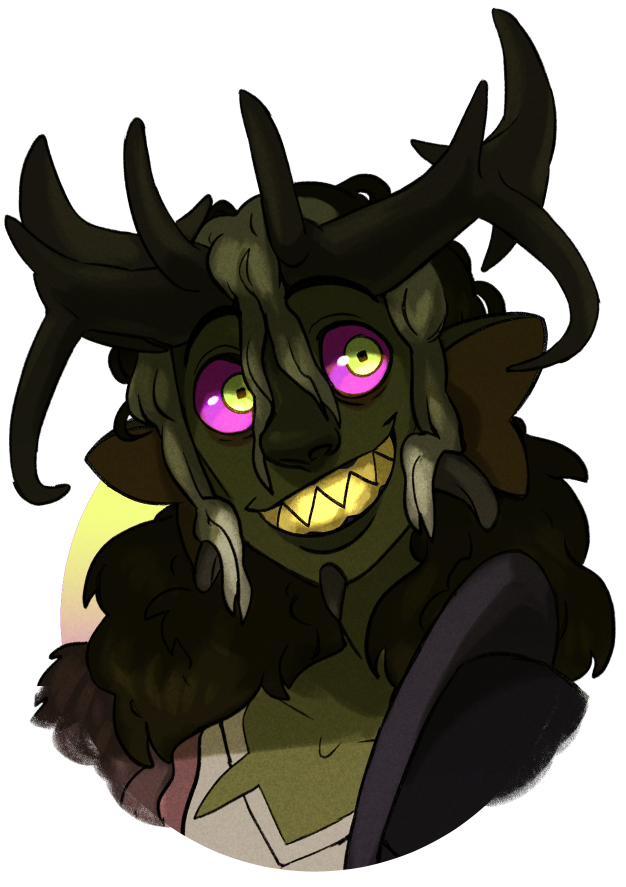
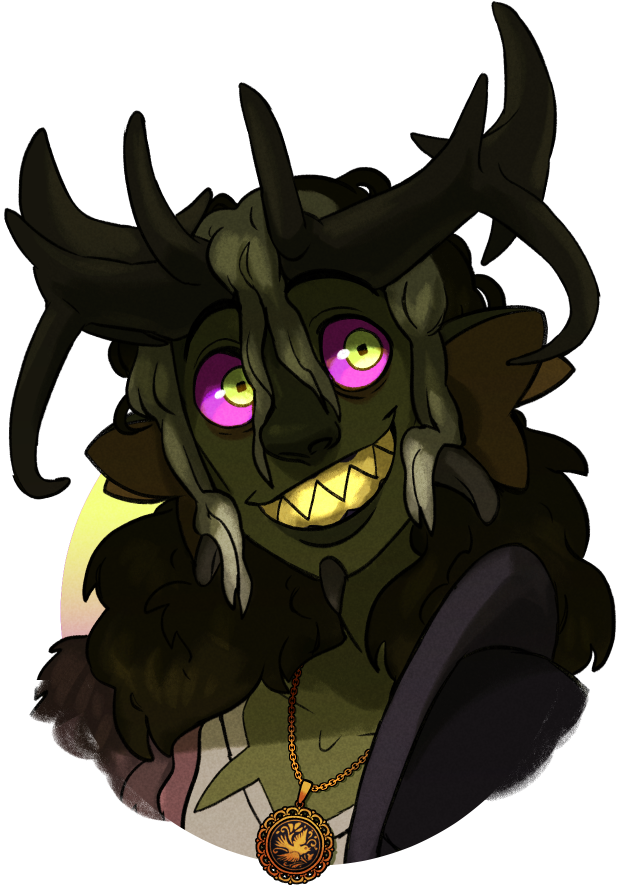
Loosestrife Updates
> Added family, fixed headshot (missing necklace)

diff --git a/loosestrife.html b/loosestrife.html
@@ -700,27 +700,27 @@
                 <h4><i class="fa-solid fa-star"></i> Trivia</h4>
                 
                 <div class="trivia-blurb">
-                  <div class="trait-content"><i class="fa-solid fa-star"></i> Because he's used to being around ghosts, he has a tendancy to shoulder/hip/tail/etc check people, and doesn't really understand physical gestures (ex. handshakes).</div>
+                  <div class="trait-content"><i class="fa-solid fa-star"></i> LOVES bugs, especially beetles. Loves to identify and document any he finds, something he's kept doing to some degree even in his current state.</div>
                 </div>
 
                 <div class="trivia-blurb">
-                  <div class="trait-content"><i class="fa-solid fa-star"></i> Tried sleeping in a bed once (he's always slept on his Pops' marble coffin) - hated it a lot. Tends to break into people's root cellars to sleep at night, leaving everything untouched unless he needs a snack.</div>
+                  <div class="trait-content"><i class="fa-solid fa-star"></i> Despite the disrepair of his clothing, his two rings and necklace are in noticeably better condition.</div>
                 </div>
 
                 <div class="trivia-blurb">
-                  <div class="trait-content"><i class="fa-solid fa-star"></i> His hair and fur get frizzy if they get wet or if it's humid - so when if can in advance; he braids his hair, ankle fur, and tail to help keep them from tangling.</div>
+                  <div class="trait-content"><i class="fa-solid fa-star"></i> Has trouble controlling his psionic abilities, and tends to bleed telepathy when around people, often talking telepathically while talking out loud or broadcasting his thoughts unintentionally.</div>
                 </div>
 
                 <div class="trivia-blurb">
-                  <div class="trait-content"><i class="fa-solid fa-star"></i> LOVES basically any food - but has a sweet tooth, and especially enjoys baked goods, fruit, and sweet vegetables like corn.</div>
+                  <div class="trait-content"><i class="fa-solid fa-star"></i> Prefers to sleep on his back, but can't do so comfortably without something shoved under his horns and neck to support his head better. Lying down in general is a bit awkward.</div>
                 </div>
 
                 <div class="trivia-blurb">
-                  <div class="trait-content"><i class="fa-solid fa-star"></i> Does "tippy tappys" when he's happy or excited, basically rapid little stepping in place. Makes an excellent little clip-clop sound.</div>
+                  <div class="trait-content"><i class="fa-solid fa-star"></i> He's nearsighted, and needs glasses to read. He still has his old reading glasses, although they're quite scratched now.</div>
                 </div>
 
                 <div class="trivia-blurb">
-                  <div class="trait-content"><i class="fa-solid fa-star"></i> Is an INCREDIBLY heavy sleeper. It's easy to assume he's dead due to his naturally low body temperature and faint pulse. Needs a firm shake or very loud sound to be woken up.</div>
+                  <div class="trait-content"><i class="fa-solid fa-star"></i> Keeps his elbow spines filed - they kept knocking things off of his desk, and has become a strong habit.</div>
                 </div>
 
               </div>

diff --git a/css/Loosestrife.css b/css/Loosestrife.css
@@ -304,6 +304,14 @@ h1, h2, h3, h4 {
      background-color: #070721;
 }
 
+.photo-wrapper {
+    background: #423530;
+}
+
+.photo-wrapper:hover, .photo-wrapper:focus {
+    background: #5a523c;
+}
+
 .photo-wrapper.reference:after {
       background: #e9e9e9;
       color: #14143c;

diff --git a/css/main.css b/css/main.css
@@ -257,6 +257,10 @@
       margin: 5px;
       border-radius: 12px;
       box-shadow: rgba(20, 20, 60, 0.3) 0px 4px 3px, rgba(20, 20, 60, 0.2) 0px -2px 0px inset;
+      min-height: 80px;
+      display: flex;
+      align-items: center;
+      justify-content: center;
     }
 
 
